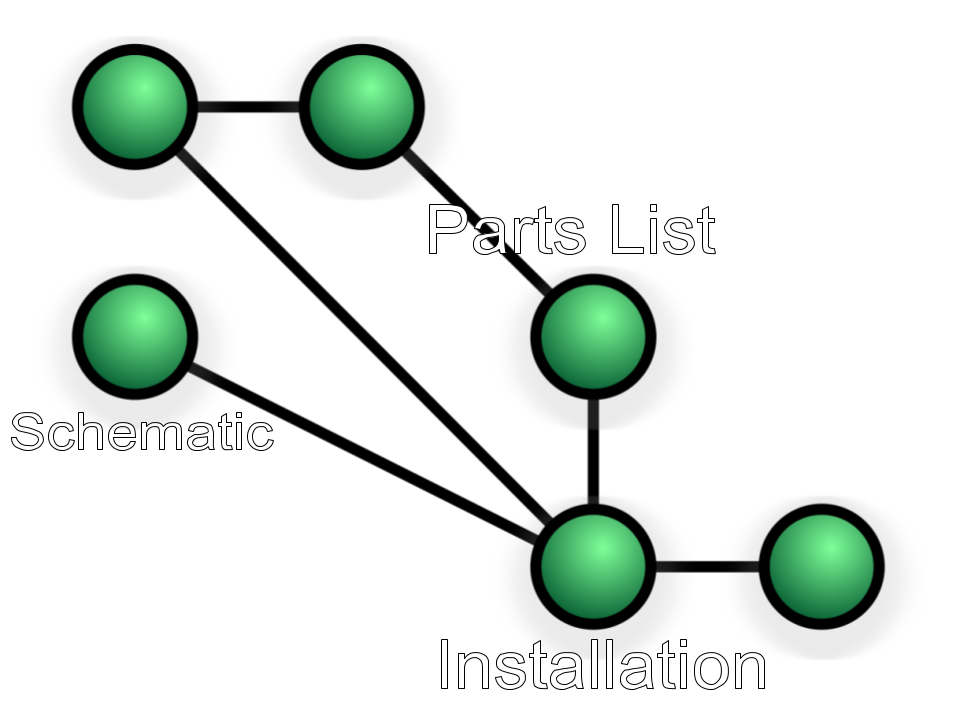
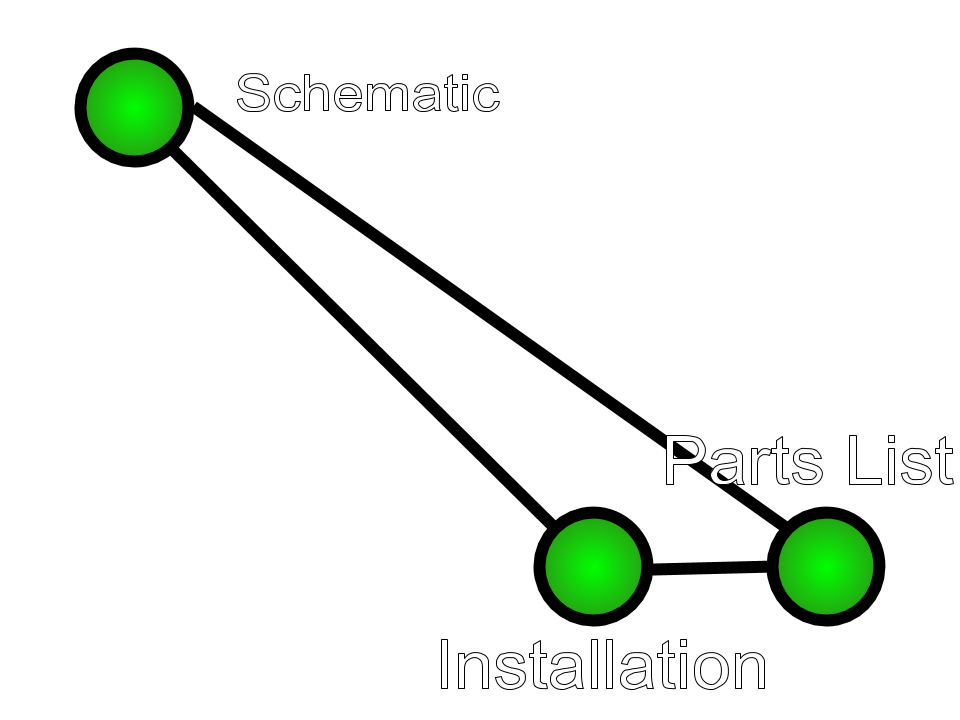
added affiliate links

diff --git a/partslist.html b/partslist.html
@@ -19,19 +19,19 @@
         </div>
          <div>
              <center><h1 id="gamer"><u>Parts List</u></h1></center>
-            <img id="myImg1" src="assets/Pics/pic1.png" alt="ISP: This plan supports up to 11 devices and will provide the bandwidth required to run all of the devices together and for quality streaming for movies or for gaming. The Download speeds are around 300 Mbps which is very fast and will allow all the devices to be running at full capacity with minimal lag or buffering.
-" style="width:100%;max-width:500px" onclick="clicktest(this)">
-            <img id="myImg2" src="assets/Pics/pic2.png" alt="Wifi Mesh: A Wifi mesh instead of a router can cover weak spots of a network and provide strong network signals throughout the entire household so that you can get the same speeds on different stories of the house.
-" style="width:100%;max-width:500px" onclick="clicktest(this)">
-            <img id="myImg3" src="assets/Pics/pic3.png" alt="Modem: This is the cheapest option and still allows for high-speed data transfers.
-" style="width:100%;max-width:500px" onclick="clicktest(this)">
-            <img id="myImg4" src="assets/Pics/pic4.png" alt="Switch: This option provides more than enough ethernet ports to connect as many network devices as possible while providing the fastest connections. This allows us to connect to many more ethernet devices if more laptops were to come or if future devices require an ethernet connection. This switch supports the 300 Mbps transfer speed of our router, so it won’t be a bottleneck.
-" style="width:100%;max-width:500px" onclick="clicktest(this)">
-            <img id="myImg5" src="assets/Pics/pic5.png" alt="Cables: These cables can allow us to connect all wired devices together and allows them to be in different rooms. These cables are long enough to go around the house and they can allow very high transfer speeds which is perfect for the family that needs lots of bandwidth for their LAN.
-" style="width:100%;max-width:500px" onclick="clicktest(this)">
-            <img id="myImg6" src="assets/Pics/pic6.png" alt="Network Adapters: This supports gigabit transfer speeds which is higher than what the plan provides so this will allow the computer plenty of leeway and room to support the standard. This will allow the PCs upstairs to connect to the switch via ethernet. This card is also very cheap which is perfect for the penny pinching family.
-" style="width:100%;max-width:500px" onclick="clicktest(this)">
-            <img id="myImg7" src="assets/Pics/pic7.png" alt="Printer: This is the cheapest printer that is wireless and also has a good print quality. It supports various connection forms such as Ethernet, wifi and other third party printing solutions. This printer will be connected to the system via wifi to free up ethernet requirements and because this allows wireless devices to print instead of just ethernet connected devices." style="width:100%;max-width:500px" onclick="clicktest(this)">
+            <a href="https://www.rogers.com/consumer/internet" target="_blank"><img id="myImg1" src="assets/Pics/pic1.png" alt="ISP: This plan supports up to 11 devices and will provide the bandwidth required to run all of the devices together and for quality streaming for movies or for gaming. The Download speeds are around 300 Mbps which is very fast and will allow all the devices to be running at full capacity with minimal lag or buffering.
+                " style="width:100%;max-width:500px" onclick="clicktest(this)"></a>
+            <a href="https://www.rogers.com/consumer/internet/mesh-whole-home-wifi-network?ipn=1" target="_blank"><img id="myImg2" src="assets/Pics/pic2.png" alt="Wifi Mesh: A Wifi mesh instead of a router can cover weak spots of a network and provide strong network signals throughout the entire household so that you can get the same speeds on different stories of the house.
+                " style="width:100%;max-width:500px" onclick="clicktest(this)"></a>
+            <a href="https://www.rogers.com/consumer/internet" target="_blank"><img id="myImg3" src="assets/Pics/pic3.png" alt="Modem: This is the cheapest option and still allows for high-speed data transfers.
+                " style="width:100%;max-width:500px" onclick="clicktest(this)"></a>
+            <a href="https://www.staples.ca/en/D-Link-DGS-108-8-Port-Gigabit-Switch/product_744185_1-CA_1_20001" target="_blank"><img id="myImg4" src="assets/Pics/pic4.png" alt="Switch: This option provides more than enough ethernet ports to connect as many network devices as possible while providing the fastest connections. This allows us to connect to many more ethernet devices if more laptops were to come or if future devices require an ethernet connection. This switch supports the 300 Mbps transfer speed of our router, so it won’t be a bottleneck.
+                " style="width:100%;max-width:500px" onclick="clicktest(this)"></a>
+            <a href="https://m.bestbuy.ca/en-ca/product/startech-50-ft-blue-cat6-cat-6-molded-patch-cable-50ft/12387005" target="_blank"><img id="myImg5" src="assets/Pics/pic5.png" alt="Cables: These cables can allow us to connect all wired devices together and allows them to be in different rooms. These cables are long enough to go around the house and they can allow very high transfer speeds which is perfect for the family that needs lots of bandwidth for their LAN.
+                " style="width:100%;max-width:500px" onclick="clicktest(this)"></a>
+            <a href="https://www.newegg.ca/Product/Product.aspx?Item=N82E16833127134" target="_blank"><img id="myImg6" src="assets/Pics/pic6.png" alt="Network Adapters: This supports gigabit transfer speeds which is higher than what the plan provides so this will allow the computer plenty of leeway and room to support the standard. This will allow the PCs upstairs to connect to the switch via ethernet. This card is also very cheap which is perfect for the penny pinching family.
+                " style="width:100%;max-width:500px" onclick="clicktest(this)"></a>
+             <a href="https://www.staples.ca/en/HP-OfficeJet-6962-All-in-One-Printer-T0G26A-1HA/product_2350693_1-CA_1_20001" target="_blank"><img id="myImg7" src="assets/Pics/pic7.png" alt="Printer: This is the cheapest printer that is wireless and also has a good print quality. It supports various connection forms such as Ethernet, wifi and other third party printing solutions. This printer will be connected to the system via wifi to free up ethernet requirements and because this allows wireless devices to print instead of just ethernet connected devices." style="width:100%;max-width:500px" onclick="clicktest(this)"></a>
             <div id="myModal" class="modal">
 
                 <!-- The Close Button -->

diff --git a/index.html b/index.html
@@ -19,8 +19,8 @@
             
             <map name="networkmap">
               <area shape="circle" coords="720,680,70" alt="Installation" href="installation.html">
-              <area shape="circle" coords="170,400,70" alt="Schematic" href="schematic.html">
-              <area shape="circle" coords="720,400,70" alt="Parts List" href="partslist.html">
+              <area shape="circle" coords="170,140,70" alt="Schematic" href="schematic.html">
+              <area shape="circle" coords="1000,680,70" alt="Parts List" href="partslist.html">
             </map>
         </div>
         
